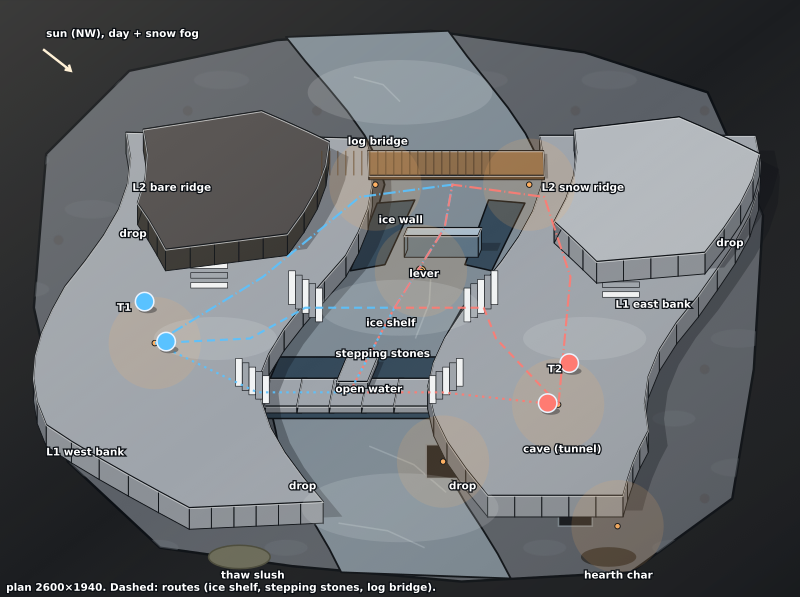
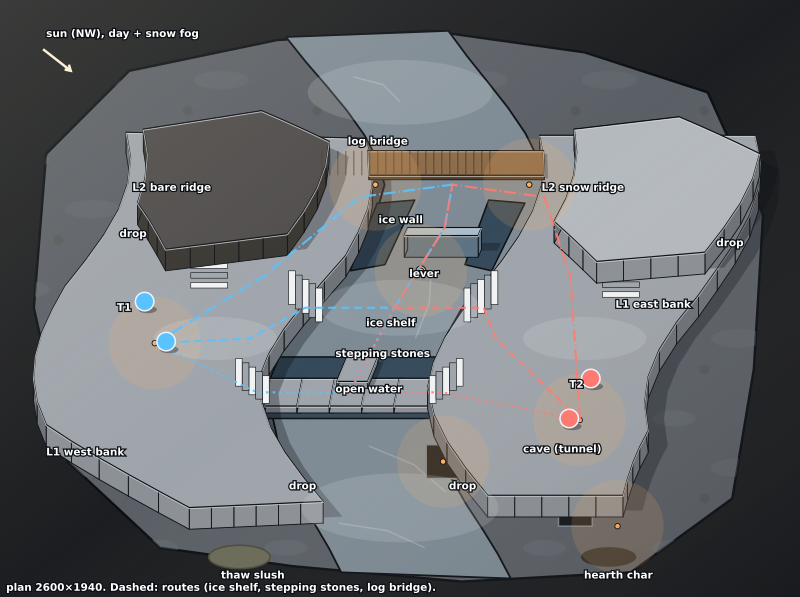
#3276: Frozen Crossing: T2 spawns re-placed, all three routes within 10 %

Changed region(s): [[0.5938, 0.4824, 0.75, 0.7236], [0.5, 0.6332, 0.5625, 0.6633]]

diff --git a/docs/art/3072-frozen-crossing.md b/docs/art/3072-frozen-crossing.md
@@ -46,16 +46,16 @@ the place (a frozen river) is kept.
 
 ## Routes and balance (base speed 180 u/s)
 
-Spawns (map positions): T1 (470,1050) and (540,1180) on the west bank, T2 (1850,1250) and (1780,1380) on the east bank, found by a grid search that evens the routes out.
+Spawns (map positions): T1 (470,1050) and (540,1180) on the west bank, T2 (1920,1300) and (1850,1430) (the spawns are placed on the map, not sheared; the east bank's L1 runs x 1400..2380 at y 1300, so both stand on it, well clear of the water) on the east bank, found by a grid search that evens the routes out.
 The centre is the central shelf, (1300,1000).
 
 | Route (T1 / T2)                                                 | Length        | Walk        |
 | --------------------------------------------------------------- | ------------- | ----------- |
-| ice shelf (ramp down, across the ice)                           | 803 / 693 u   | 4.5 / 3.9 s |
-| stepping stones (over the open water)                           | 979 / 992 u   | 5.4 / 5.5 s |
-| log bridge (up the bank, over the bridge, through the ice wall) | 1571 / 1441 u | 8.7 / 8.0 s |
+| ice shelf (ramp down, across the ice)                           | 803 / 778 u   | 4.5 / 4.3 s |
+| stepping stones (over the open water)                           | 979 / 1069 u  | 5.4 / 5.9 s |
+| log bridge (up the bank, over the bridge, through the ice wall) | 1571 / 1490 u | 8.7 / 8.3 s |
 
-The log-bridge time assumes the ice wall is broken (it starts shut). Both teams have the same three routes; the stones are within 1 %, the log bridge within 9 %, the ice shelf within 16 % (the east is the quicker side to the shelf, the west gets the longer bank and the bigger north). Build must put the bench (#3065) on exactly that gap. The east bank is not a mirror of the west: it bulges toward the river in the middle and steps back at the south, and the T2 seats stand further from the water. The sides differ on purpose: the east bank
+The log-bridge time assumes the ice wall is broken (it starts shut). Both teams have the same three routes; all three are within 10 % (ice shelf 3 %, stones 9 %, log bridge 5 %); the east is the quicker side on each. The build card's bench (#3065) confirms it. The east bank is not a mirror of the west: it bulges toward the river in the middle and steps back at the south, and the T2 seats stand further from the water. The sides differ on purpose: the east bank
 holds the cave and a snow-capped ridge (231 k u²); the west a bare rock ridge (213 k u², 8 %
 smaller, within 25 %) and the thaw slush. High ground within half the map of either spawn is its own
 ridge, reached by its own stair; neither is reachable without crossing the middle or the bridge.
